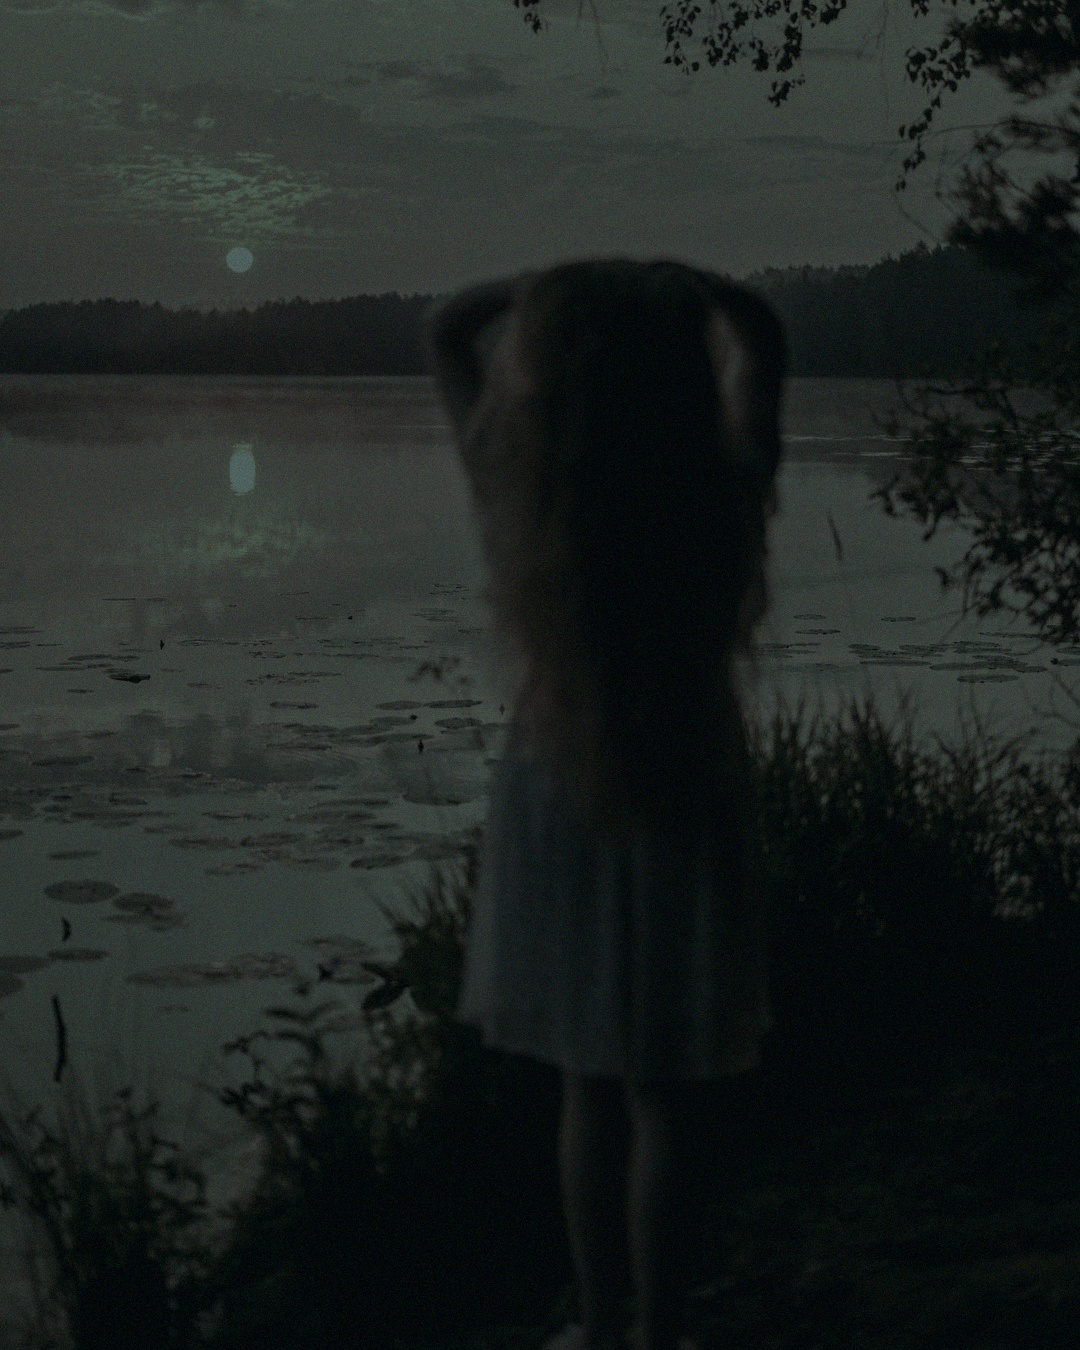
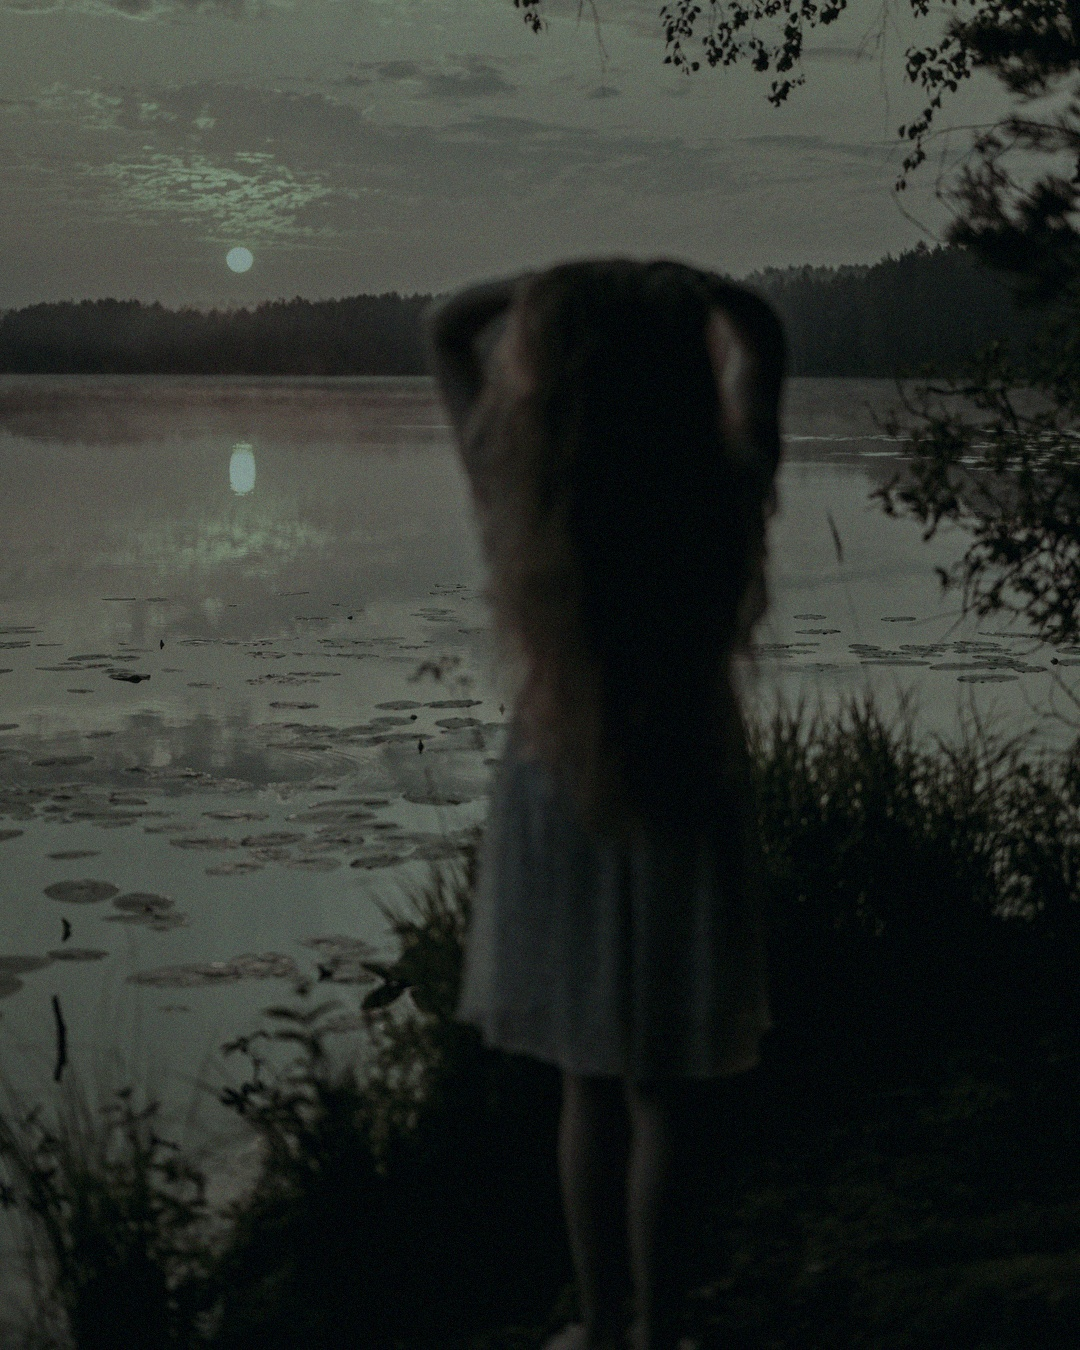
Prosperidade: lâminas montadas no modelo novo CarrosselCena, legenda e hashtags
Claude-Session: https://claude.ai/code/session_01JEWNuh6mcQrruvvkQm2xqR

diff --git a/modelos/remotion/src/CarrosselCena.tsx b/modelos/remotion/src/CarrosselCena.tsx
@@ -1,0 +1,100 @@
+import React, {useEffect, useState} from 'react';
+import {AbsoluteFill, Img, staticFile, useCurrentFrame, continueRender, delayRender} from 'remotion';
+import type {Identidade, Lamina} from './Carrossel';
+
+// Visual "cena" (23/11/2026): a imagem ocupa a lâmina inteira e o texto fica no espaço vazio da cena
+// (céu, névoa ou grama), com um véu suave só atrás do texto. Sem a faixa verde do modelo antigo.
+export type LaminaCena = Lamina & {
+  posicao: 'topo' | 'base';     // onde fica o bloco de texto
+  claro?: boolean;              // cena clara: texto escuro e véu claro
+  veu?: number;                 // força do véu atrás do texto (0 a 1). Padrão 0,55
+};
+export type PropsCena = {pasta: string; identidade: Identidade; laminas: LaminaCena[]};
+
+const familia = (papel: string) => `Cena-${papel}`;
+const useFontes = (pasta: string, id: Identidade) => {
+  const [h] = useState(() => delayRender('fontes da marca'));
+  useEffect(() => {
+    Promise.all(
+      Object.entries(id.fontes).map(([papel, f]) =>
+        new FontFace(familia(papel === 'titulo_italico' ? 'titulo' : papel), `url(${staticFile(`${pasta}/${f.arquivo}`)})`, {
+          weight: f.peso,
+          style: f.estilo ?? (papel === 'titulo_italico' ? 'italic' : 'normal'),
+        }).load().then((x) => document.fonts.add(x))
+      )
+    ).then(() => continueRender(h)).catch((e) => { console.error(e); continueRender(h); });
+  }, [h, pasta, id]);
+};
+
+const Titulo: React.FC<{txt: string; size: number; cor: string; destaque: string; peso: number}> = ({txt, size, cor, destaque, peso}) => (
+  <div style={{fontFamily: familia('titulo'), fontWeight: peso, fontSize: size, lineHeight: 1.2, color: cor, textWrap: 'balance'} as React.CSSProperties}>
+    {txt.split(' / ').map((linha, i) => (
+      <div key={i}>
+        {linha.split(/(\*[^*]+\*)/g).filter(Boolean).map((p, k) => {
+          if (!p.startsWith('*')) return <span key={k}>{p}</span>;
+          const m = p.slice(1, -1).match(/^(.*?)([.,!?;:…]*)$/)!;
+          return <span key={k}><span style={{fontStyle: 'italic', color: destaque}}>{m[1]}</span>{m[2]}</span>;
+        })}
+      </div>
+    ))}
+  </div>
+);
+
+// Chamada com "*trecho*" em itálico (ex.: comente *FLUIR*)
+const Rica: React.FC<{txt: string}> = ({txt}) => (
+  <>{txt.split(/(\*[^*]+\*)/g).filter(Boolean).map((p, k) => p.startsWith('*') ? <b key={k} style={{fontWeight: 700}}>{p.slice(1, -1)}</b> : <span key={k}>{p}</span>)}</>
+);
+
+export const CarrosselCena: React.FC<PropsCena> = ({pasta, identidade: id, laminas}) => {
+  useFontes(pasta, id);
+  const i = useCurrentFrame();
+  const l = laminas[i];
+  const total = laminas.length;
+  const capa = i === 0 && total > 1;
+  const ultima = i === total - 1;
+  const arq = (a: string) => staticFile(`${pasta}/${a}`);
+  const escuroRGB = id.cores.escuro;
+  const claroRGB = '250,247,240';
+  const veuRGB = l.claro ? claroRGB : escuroRGB;
+  const corTexto = l.claro ? `rgb(${escuroRGB})` : id.cores.texto;
+  const corDestaque = l.claro ? '#8A6A22' : id.cores.destaque; // dourado mais fundo para ler no claro
+  const v = l.veu ?? 0.55;
+  const topo = l.posicao === 'topo';
+  // Véu: degradê que nasce na borda onde está o texto e some no meio da imagem (sem faixa marcada)
+  const veu = topo
+    ? `linear-gradient(180deg, rgba(${veuRGB},${v}) 0%, rgba(${veuRGB},${v * 0.8}) 30%, rgba(${veuRGB},${v * 0.35}) 48%, rgba(${veuRGB},0) 62%)`
+    : `linear-gradient(0deg, rgba(${veuRGB},${v}) 0%, rgba(${veuRGB},${v * 0.8}) 34%, rgba(${veuRGB},${v * 0.35}) 52%, rgba(${veuRGB},0) 66%)`;
+  const sombra = l.claro ? 'none' : '0 2px 18px rgba(0,0,0,0.35)';
+  return (
+    <AbsoluteFill style={{background: '#000'}}>
+      <Img src={arq(l.imagem)} style={{width: '100%', height: '100%', objectFit: 'cover'}} />
+      <AbsoluteFill style={{background: veu}} />
+      <div style={{position: 'absolute', left: 90, width: 900, textAlign: 'center', textWrap: 'pretty', textShadow: sombra,
+        ...(topo ? {top: l.topo ?? 110} : {bottom: 150})} as React.CSSProperties}>
+        <div style={{display: 'flex', justifyContent: 'center', alignItems: 'center', gap: 18, marginBottom: 30}}>
+          <div style={{width: 44, height: 1.5, background: corDestaque}} />
+          <div style={{fontFamily: familia('rotulo'), fontWeight: Number(id.fontes.rotulo.peso), fontSize: 23, letterSpacing: '0.28em', paddingLeft: '0.28em', color: corDestaque}}>{l.rotulo}</div>
+          <div style={{width: 44, height: 1.5, background: corDestaque}} />
+        </div>
+        <Titulo txt={l.titulo} size={capa ? 82 : 66} cor={corTexto} destaque={corDestaque} peso={Number(id.fontes.titulo.peso)} />
+        <div style={{fontFamily: familia('texto'), fontWeight: Number(id.fontes.texto.peso), fontSize: capa ? 36 : 33, lineHeight: 1.45, color: corTexto, marginTop: 30, opacity: 0.95}}>{l.texto}</div>
+        {l.chamada && !ultima && <div style={{fontFamily: familia('rotulo'), fontWeight: Number(id.fontes.rotulo.peso), fontSize: 27, letterSpacing: '0.06em', color: corDestaque, marginTop: 38}}><Rica txt={l.chamada} /></div>}
+      </div>
+      {ultima ? (<>
+        <AbsoluteFill style={{background: `linear-gradient(0deg, rgba(${escuroRGB},0.78) 0%, rgba(${escuroRGB},0.55) 18%, rgba(${escuroRGB},0) 34%)`}} />
+        <div style={{position: 'absolute', left: 0, width: 1080, bottom: 64, display: 'flex', flexDirection: 'column', alignItems: 'center', gap: 14, textShadow: '0 2px 12px rgba(0,0,0,0.4)'}}>
+          {l.chamada && <div style={{fontFamily: familia('rotulo'), fontWeight: Number(id.fontes.rotulo.peso), fontSize: 28, letterSpacing: '0.04em', lineHeight: 1.4, color: id.cores.texto, width: 860, textAlign: 'center', marginBottom: 26}}><Rica txt={l.chamada} /></div>}
+          <Img src={arq(id.logo)} style={{height: 72, width: 'auto'}} />
+          <div style={{fontFamily: familia('rotulo'), fontWeight: Number(id.fontes.rotulo.peso), fontSize: 30, letterSpacing: '0.3em', paddingLeft: '0.3em', color: id.cores.destaque}}>{id.nome}</div>
+        </div>
+      </>) : (
+        <div style={{position: 'absolute', left: 70, right: 70, ...(topo ? {bottom: 50} : {top: 50}), display: 'flex', justifyContent: 'space-between', alignItems: 'center', fontFamily: familia('rotulo'), fontWeight: Number(id.fontes.rotulo.peso), fontSize: 20, letterSpacing: '0.25em', color: id.cores.texto, opacity: 0.8, textShadow: '0 1px 8px rgba(0,0,0,0.5)'}}>
+          <div style={{display: 'flex', alignItems: 'center', gap: 12}}>
+            <Img src={arq(id.logo)} style={{height: 36, width: 'auto'}} />{id.nome}
+          </div>
+          <div>{i + 1}/{total}</div>
+        </div>
+      )}
+    </AbsoluteFill>
+  );
+};

diff --git a/modelos/remotion/src/Root.tsx b/modelos/remotion/src/Root.tsx
@@ -3,6 +3,7 @@ import {Composition} from 'remotion';
 import {Carrossel, PropsCarrossel} from './Carrossel';
 import exemplo from './exemplo-carrossel.json';
 import {ReelFabrica, PropsReel} from './ReelFabrica';
+import {CarrosselCena, PropsCena} from './CarrosselCena';
 
 // Uma lâmina por quadro (frame). Post único = carrossel de 1 lâmina.
 export const Root: React.FC = () => (
@@ -15,6 +16,16 @@ export const Root: React.FC = () => (
     height={1350}
     durationInFrames={1}
     defaultProps={exemplo as unknown as PropsCarrossel}
+    calculateMetadata={({props}) => ({durationInFrames: Math.max(1, props.laminas.length)})}
+  />
+  <Composition
+    id="CarrosselCena"
+    component={CarrosselCena}
+    fps={30}
+    width={1080}
+    height={1350}
+    durationInFrames={1}
+    defaultProps={exemplo as unknown as PropsCena}
     calculateMetadata={({props}) => ({durationInFrames: Math.max(1, props.laminas.length)})}
   />
   <Composition

diff --git a/docs/continuidade.md b/docs/continuidade.md
@@ -7,7 +7,7 @@ Branch de trabalho: `claude/nifty-albattani-owiail` (ainda não está no `main`)
 
 
 ## ⏭ Próximo passo imediato (23/11/2026)
-**Atualização (23/11, sessão do Kling):** o Kling não abriu na sessão. Lâminas 2 e 3 geradas no vidIQ e aprovadas pelo Olho; 1, 4 e 5 são fotos do Pexels provisórias (ver `producoes/2026-11-23-apometria-prosperidade/imagens/origem.md`). vidIQ ficou com ~13 créditos até 15/12. Próximo: refazer 1, 4 e 5 no Kling numa sessão nova, usando `imagens/s2.jpg` como referência, e depois Moldura.
+**Atualização (23/11, sessão do Kling):** o Kling não abriu na sessão. Lâminas 2 e 3 geradas no vidIQ e aprovadas pelo Olho; 1, 4 e 5 são fotos do Pexels provisórias (ver `producoes/2026-11-23-apometria-prosperidade/imagens/origem.md`). vidIQ ficou com ~13 créditos até 15/12. Lâminas montadas no modelo novo `CarrosselCena` (`final/lamina-1..5.jpg`, legenda e hashtags com #explorer em `final/`). Falta: aprovação da responsável; se ela quiser, refazer 1, 4 e 5 no Kling (sessão nova, `imagens/s2.jpg` como referência) e remontar com `node scripts/montar.mjs`. Depois, enviar ao estúdio só quando ela pedir.
 
 **Carrossel "Prosperidade" (`producoes/2026-11-23-apometria-prosperidade/`)**: roteiro v3 APROVADO (Lupa 8,83 + Guardiã) e comandos visuais aprovados pelo Crivo em `07-prompts-gemini.md`. **Falta gerar as 5 imagens.** ✅ A responsável já autorizou o **Kling** (23/11): usar a skill `kling-ai:kling-ai-generate-image` (text_to_image, 4:5, 2K, 1 imagem por lâmina), seguindo as regras de cobrança do plugin (mostrar resumo e pedir o "pode gerar" antes). Gemini API fica como alternativa.
 1. Conferir se a chave existe: `env | grep -c GEMINI_API_KEY` (não imprimir o valor).
@@ -24,7 +24,7 @@ Se não houver `GEMINI_API_KEY`: a responsável pode autorizar o Kling (conector
 | `2026-11-14-apometria-alcoolismo` | Carrossel 7 | Aprovado, rascunho no estúdio |
 | `2026-11-15-apometria-pesadelos` | Carrossel 8 | Pronto, mas reprovado no visual/linguagem; não publicar |
 | `2026-11-15-apometria-reels-01` | Reels 47 s | Pronto (narração vidIQ, cenas do astral em motion graphics); aguardando opinião |
-| `2026-11-23-apometria-prosperidade` | Carrossel 5 | Texto aprovado; lâminas 2 e 3 prontas (vidIQ), 1/4/5 provisórias (Pexels) |
+| `2026-11-23-apometria-prosperidade` | Carrossel 5 | Texto aprovado; montado (5 lâminas); 2 e 3 do vidIQ, 1/4/5 do Pexels; aguardando aprovação |
 
 ## Ferramentas (decisão de 23/11)
 - **vidIQ: só pesquisa** (comentários, outliers, palavras-chave). ~40 créditos restantes no ciclo até 15/12.

diff --git a/producoes/2026-11-23-apometria-prosperidade/imagens/origem.md b/producoes/2026-11-23-apometria-prosperidade/imagens/origem.md
@@ -13,3 +13,8 @@ Saldo do vidIQ: 57 créditos (22 por imagem), suficiente para só 2 imagens.
 
 Originais em `originais/`. Recorte 1080x1350.
 Recomendação: refazer 1, 4 e 5 no Kling (sessão nova) usando s2.jpg como referência de personagem e rio, para a série ficar igual.
+
+## Montagem (23/11/2026)
+- Modelo novo `CarrosselCena` (imagem inteira, texto no espaço vazio da cena, véu suave só atrás do texto). Lâmina 3 com texto embaixo.
+- Ajustes do Olho: lâmina 1 clareada (a mulher sumia); lâmina 4 refeita com a foto inteira embaixo e céu estendido em cima (o texto cobria a cabeça); lâmina 5 com chamada e assinatura embaixo sobre véu escuro (estavam ilegíveis no mato).
+- Hashtags: entrou #explorer (regra de todas as contas) e saiu #limpezaenergetica, para ficar em 5.
